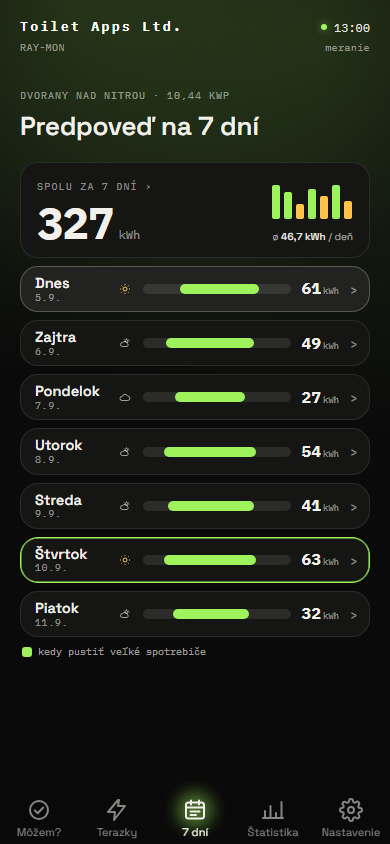
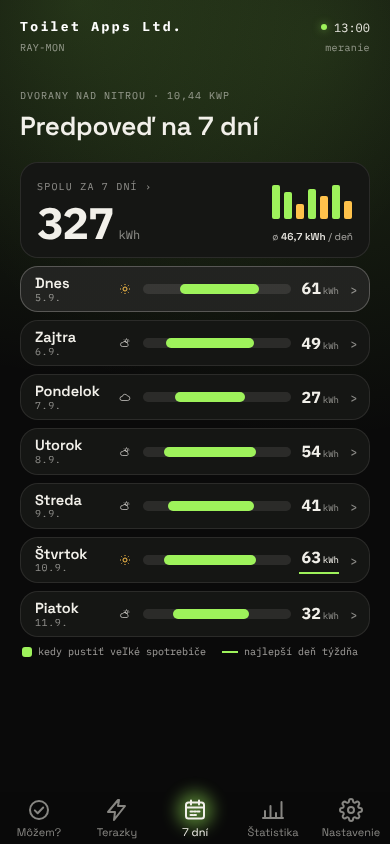
feat: najlepší deň v karte 7 dní podčiarkuje výkon zelenou linkou namiesto rámu (#290)
## Čo sa mení

Zelený rám okolo najlepšieho dňa vyzeral ako vybraná položka. Teraz je
najlepší deň (`bestDayIndex`) v oboch appkách zvýraznený inak:

- **Súčasná appka** (`style.css`, `index.html`): rám je preč, výkon „63
kWh“ (číslo aj jednotka) je biely a podčiarknutý zelenou linkou (2 px).
V legende pod zoznamom pribudla položka „najlepší deň týždňa“ s tou
istou linkou.
- **Obloha** (`obloha/style.css`, `shared/messages-sedem.js`): rám je
preč, `<em>` s kWh je podčiarknutý zelenou linkou. Vysvetlenie linky
pribudlo do textu pod zoznamom (`SEDEM_TEXTS.hint`, oba tóny).

Výpočet predpovede sa nemení. Zmenil sa len text, preto som aktualizoval
`test/golden/texty-drzy.json`.

## Overenie

- `npm run check`: zelené (346/346)
- `npm run test:e2e`: zelené (352/352), upravené je očakávanie textu
`#sd-hint`
- `npm run screenshots`: aktualizovaný `docs/img/7dni.png`. Ostatné
snímky som vrátil, lebo sa líšili len inou verziou Chromia v tomto
prostredí.

---
_Generated by [Claude
Code](https://claude.ai/code/session_01Uc7j8gxoa9Ln2bg6vQ1TvK)_

diff --git a/style.css b/style.css
@@ -2396,6 +2396,13 @@ body:has(#page[data-panel='terazky']) .appbar-info {
 .week-legend i.tier-green {
     background: var(--green);
 }
+/* Linka najlepšieho dňa - tá istá, ktorá podčiarkuje jeho výkon (.wday.best .wday-kwh). */
+.week-legend i.best-line {
+    width: 16px;
+    height: 2px;
+    border-radius: 0;
+    background: var(--green);
+}
 .week-list {
     display: flex;
     flex-direction: column;
@@ -2431,11 +2438,14 @@ body:has(#page[data-panel='terazky']) .appbar-info {
     border-color: var(--ink-20);
     background-image: linear-gradient(var(--ink-05), var(--ink-05));
 }
-/* Najlepší deň týždňa má zelený rám ako v novej appke (.day.best). Stojí za .sel, takže
-   vybraný najlepší deň si rám nechá a od .sel preberie len svetlejšiu výplň. */
-.wday.best {
-    border-color: var(--green);
-    box-shadow: inset 0 0 0 0.5px var(--green);
+/* Najlepší deň týždňa má výkon podčiarknutý zelenou linkou ako v novej appke (.day.best em).
+   Rám nie - zvýraznený rám vyzerá ako vybraná položka. Linku vysvetľuje legenda pod zoznamom. */
+.wday.best .wday-kwh {
+    padding-bottom: 3px;
+    border-bottom: 2px solid var(--green);
+}
+.wday.best .wday-kwh .u {
+    color: inherit;
 }
 /* Dnešok sa nezvýrazňuje: v rebríčku stojí vždy prvý a volá sa "Dnes", takže by farba
    hovorila to, čo už povedalo poradie aj meno. */

diff --git a/shared/messages-sedem.js b/shared/messages-sedem.js
@@ -99,7 +99,7 @@ export const SKY_WORDS = { jasno: 'jasno', polojasno: 'polojasno', zamracene: 'z
 /** Pevné texty karty: nadpisy, popisky čísel, tlačidlá a výzvy. */
 export const SEDEM_TEXTS = {
     question: 'Veľké pranie?',
-    hint: 'Zelený pás ukazuje, odkedy dokedy slnko stačí na veľké spotrebiče. Ťukni na deň.',
+    hint: 'Zelený pás ukazuje, odkedy dokedy slnko stačí na veľké spotrebiče, zelená linka pod číslom najlepší deň týždňa. Ťukni na deň.',
     back: '7 dní',
     dayHint: 'Potiahni do strán na susedný deň.',
     weekTitle: 'Týždeň',
@@ -127,7 +127,7 @@ export const SEDEM_TEXTS = {
 /** @type {typeof SEDEM_TEXTS} */
 const SEDEM_TEXTS_SLUSNE = {
     ...SEDEM_TEXTS,
-    hint: 'Zelený pás ukazuje, odkedy dokedy slnko stačí na veľké spotrebiče. Ťuknite na deň.',
+    hint: 'Zelený pás ukazuje, odkedy dokedy slnko stačí na veľké spotrebiče, zelená linka pod číslom najlepší deň týždňa. Ťuknite na deň.',
     dayHint: 'Potiahnite do strán na susedný deň.',
     weekHint: 'Potiahnite doprava a vrátite sa na 7 dní.',
     guessTitle: 'Najlepší deň platí, kWh sú len odhad',

diff --git a/web/render/sedemdni.js b/web/render/sedemdni.js
@@ -172,7 +172,7 @@ function renderTableAndTabs(days, sel, dom) {
  * Farby sú tie isté ako v karte 7 dní novej appky (shared/sedem-dni.js): pás ide cez produkčné
  * okno dňa a zelené sú v ňom úseky, kedy je ideálne pustiť veľké spotrebiče (zelené štvrťhodiny
  * plánu dňa - slnko aj tarifa). Deň bez okna má pás prázdny. Stĺpčeky v súčte týždňa sú
- * zmenšené stĺpce z detailu týždňa: výška aj farba je pásmo dňa (weekDayTiers). Najlepší deň týždňa (najviac kWh, bestDayIndex) má zelený rám.
+ * zmenšené stĺpce z detailu týždňa: výška aj farba je pásmo dňa (weekDayTiers). Najlepší deň týždňa (najviac kWh, bestDayIndex) má výkon podčiarknutý zelenou linkou.
  *
  * Dnešok tu nemá vlastnú triedu: v rebríčku stojí vždy prvý a volá sa "Dnes", takže niet
  * čo zvýrazňovať. Príznak `r.today` z modelu ostáva, značí sa ním prepínač dní a tabuľka.

diff --git a/index.html b/index.html
@@ -453,9 +453,11 @@
                         </button>
                         <div class="week-list" id="week-list"></div>
                         <!-- Legenda pásu dňa: zelené úseky sú okná na veľké spotrebiče, to isté
-                             ako v karte 7 dní novej appky (sunWindows v shared/sedem-dni.js). -->
+                             ako v karte 7 dní novej appky (sunWindows v shared/sedem-dni.js).
+                             Zelená linka podčiarkuje výkon najlepšieho dňa (bestDayIndex). -->
                         <div class="week-legend">
                             <span><i class="tier-green"></i>kedy pustiť veľké spotrebiče</span>
+                            <span><i class="best-line"></i>najlepší deň týždňa</span>
                         </div>
                     </section>
                     <div class="msg-block" id="week-msg-block">

diff --git a/test/e2e/obloha.spec.js b/test/e2e/obloha.spec.js
@@ -1303,7 +1303,7 @@ test.describe('karta 7 dní', () => {
             await expect(page.locator('#sd-days .day')).toHaveCount(7);
             await expect(page.locator('#sd-days .day.best')).toHaveCount(1);
             await expect(page.locator('#sd-hint')).toHaveText(
-                'Zelený pás ukazuje, odkedy dokedy slnko stačí na veľké spotrebiče. Ťukni na deň.',
+                'Zelený pás ukazuje, odkedy dokedy slnko stačí na veľké spotrebiče, zelená linka pod číslom najlepší deň týždňa. Ťukni na deň.',
             );
             const riadky = await page.locator('#sd-days .day, #sd-sum').evaluateAll((els) =>
                 els.map((el) => {

diff --git a/obloha/style.css b/obloha/style.css
@@ -977,9 +977,11 @@ button:focus-visible {
     text-align: left;
     cursor: pointer;
 }
-.day.best {
-    border-color: var(--yes);
-    box-shadow: inset 0 0 0 0.5px var(--yes);
+/* Najlepší deň: výkon podčiarknutý zelenou linkou. Rám nie - zvýraznený rám vyzerá ako
+   vybraná položka. Linku vysvetľuje text pod zoznamom (SEDEM_TEXTS.hint). */
+.day.best em {
+    padding-bottom: 3px;
+    border-bottom: 2px solid var(--yes);
 }
 .dn {
     white-space: nowrap;
